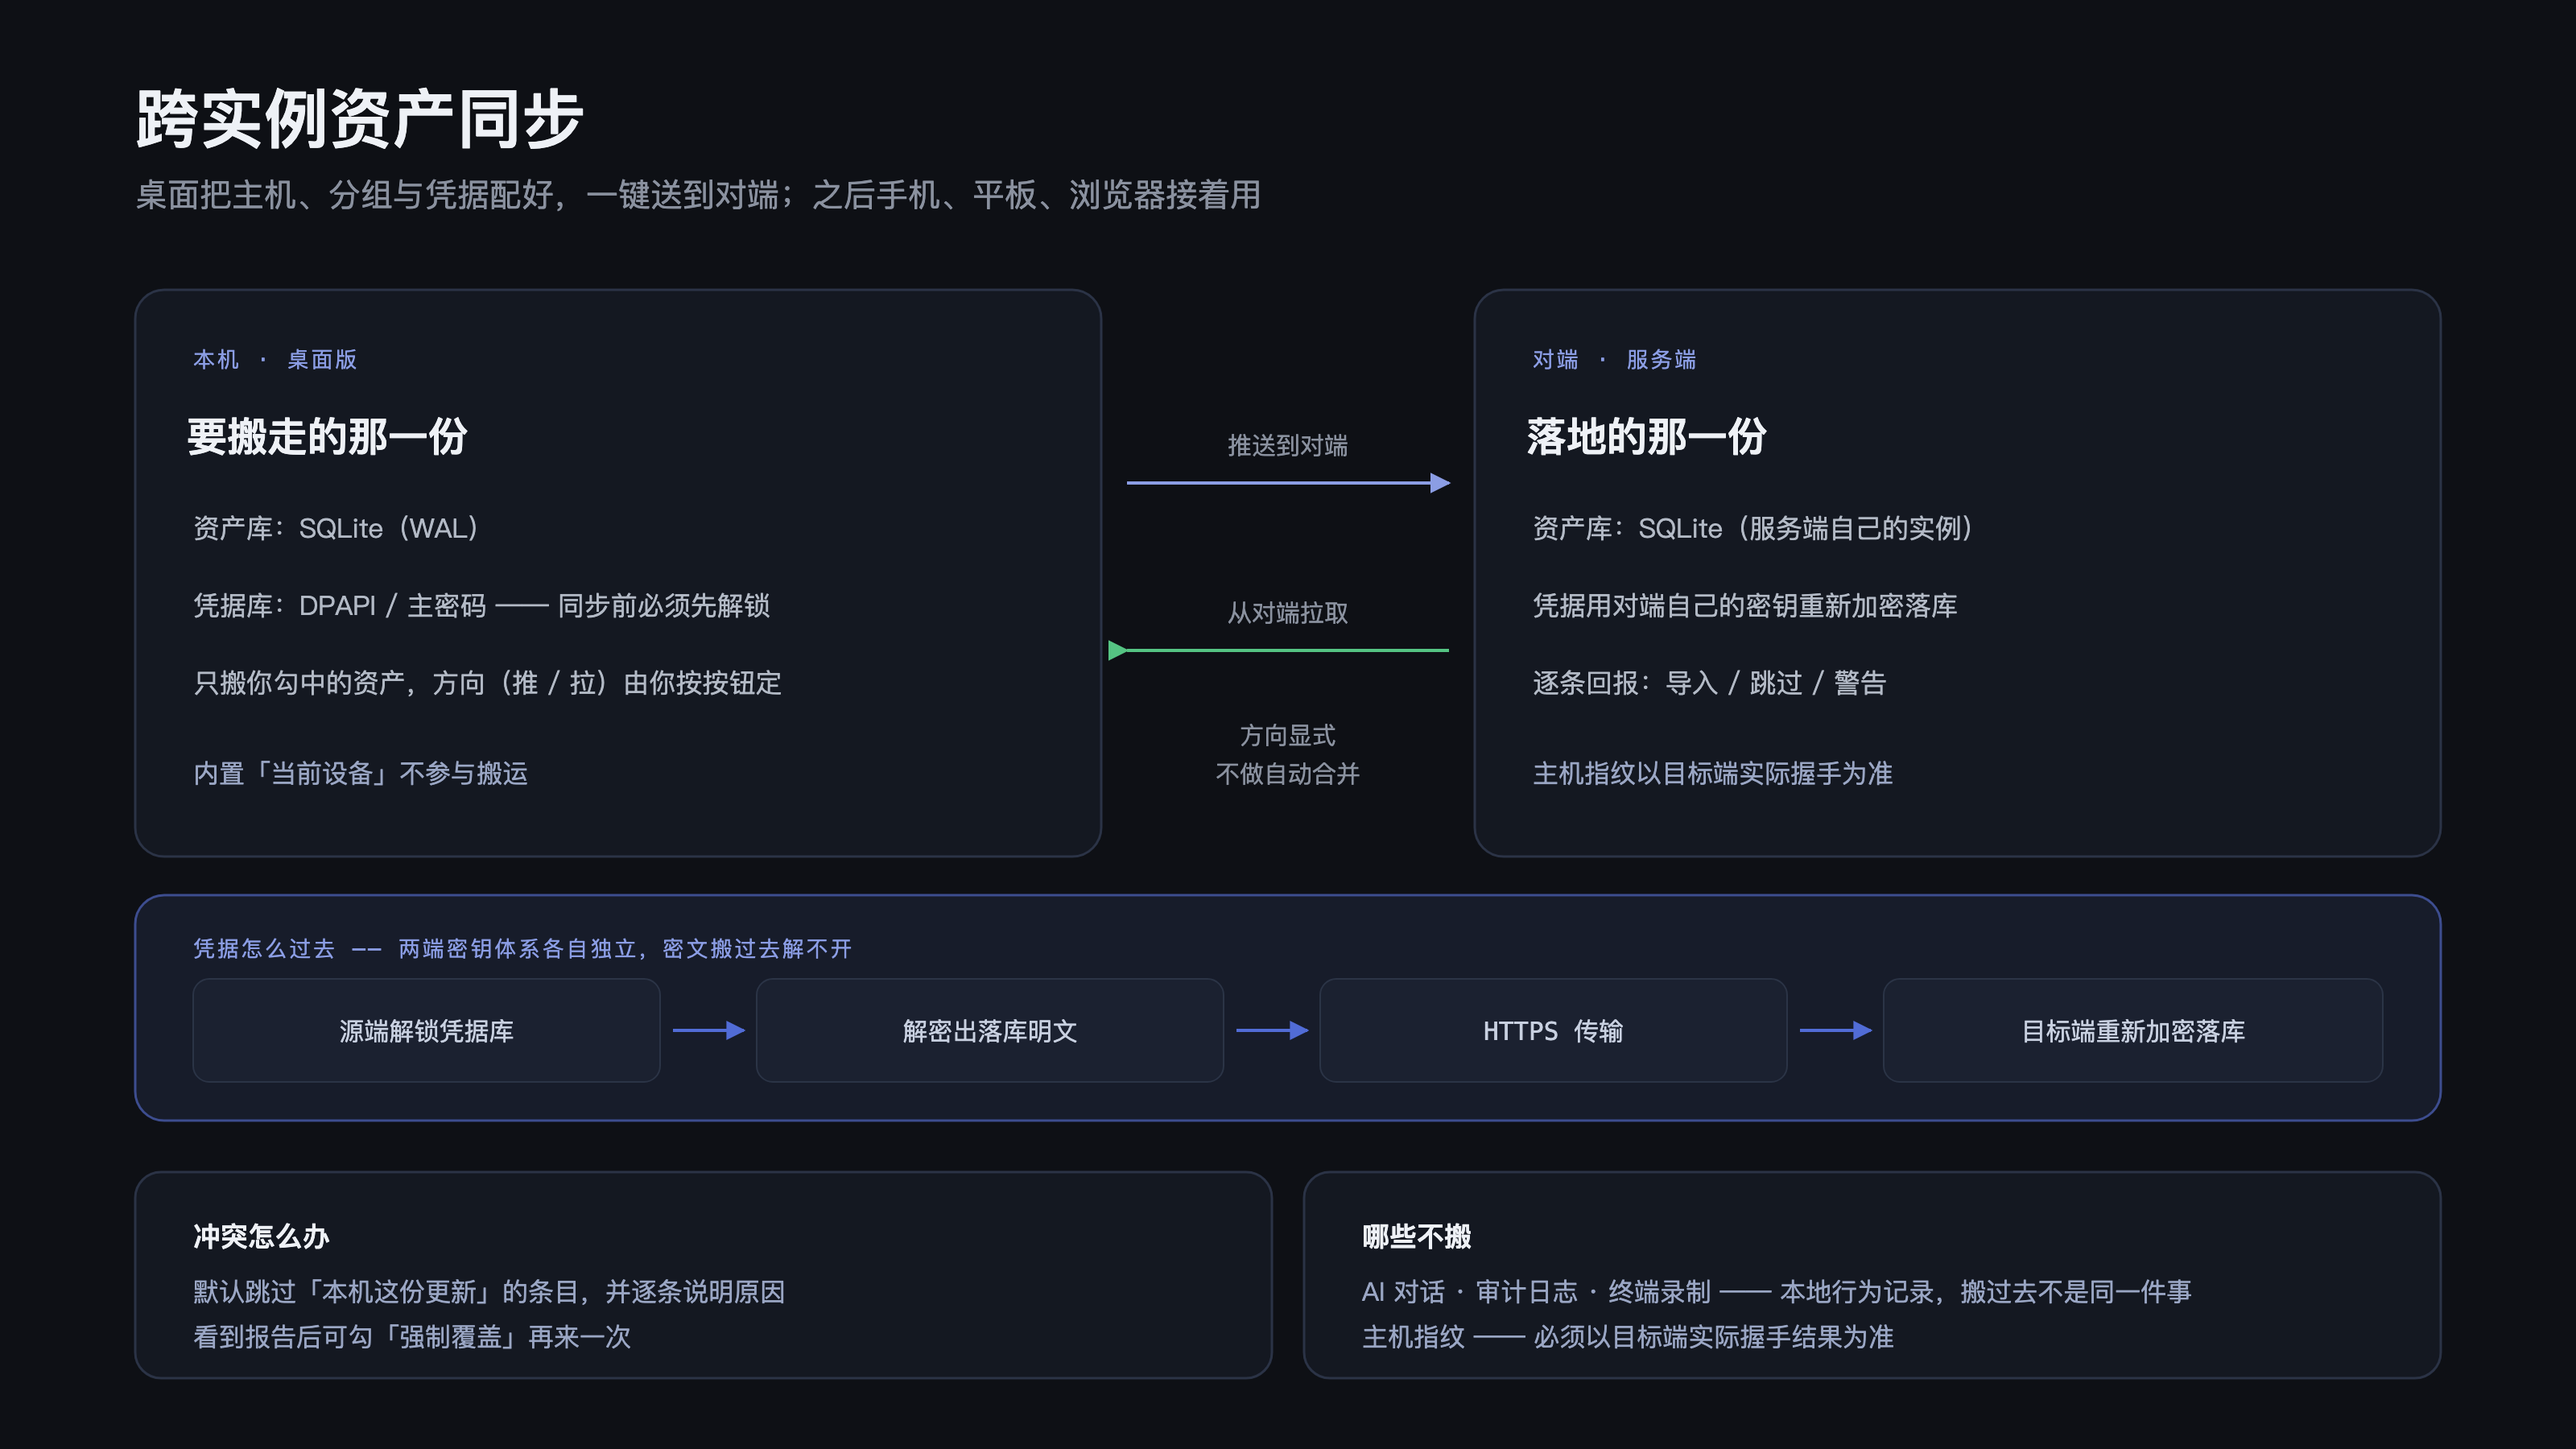
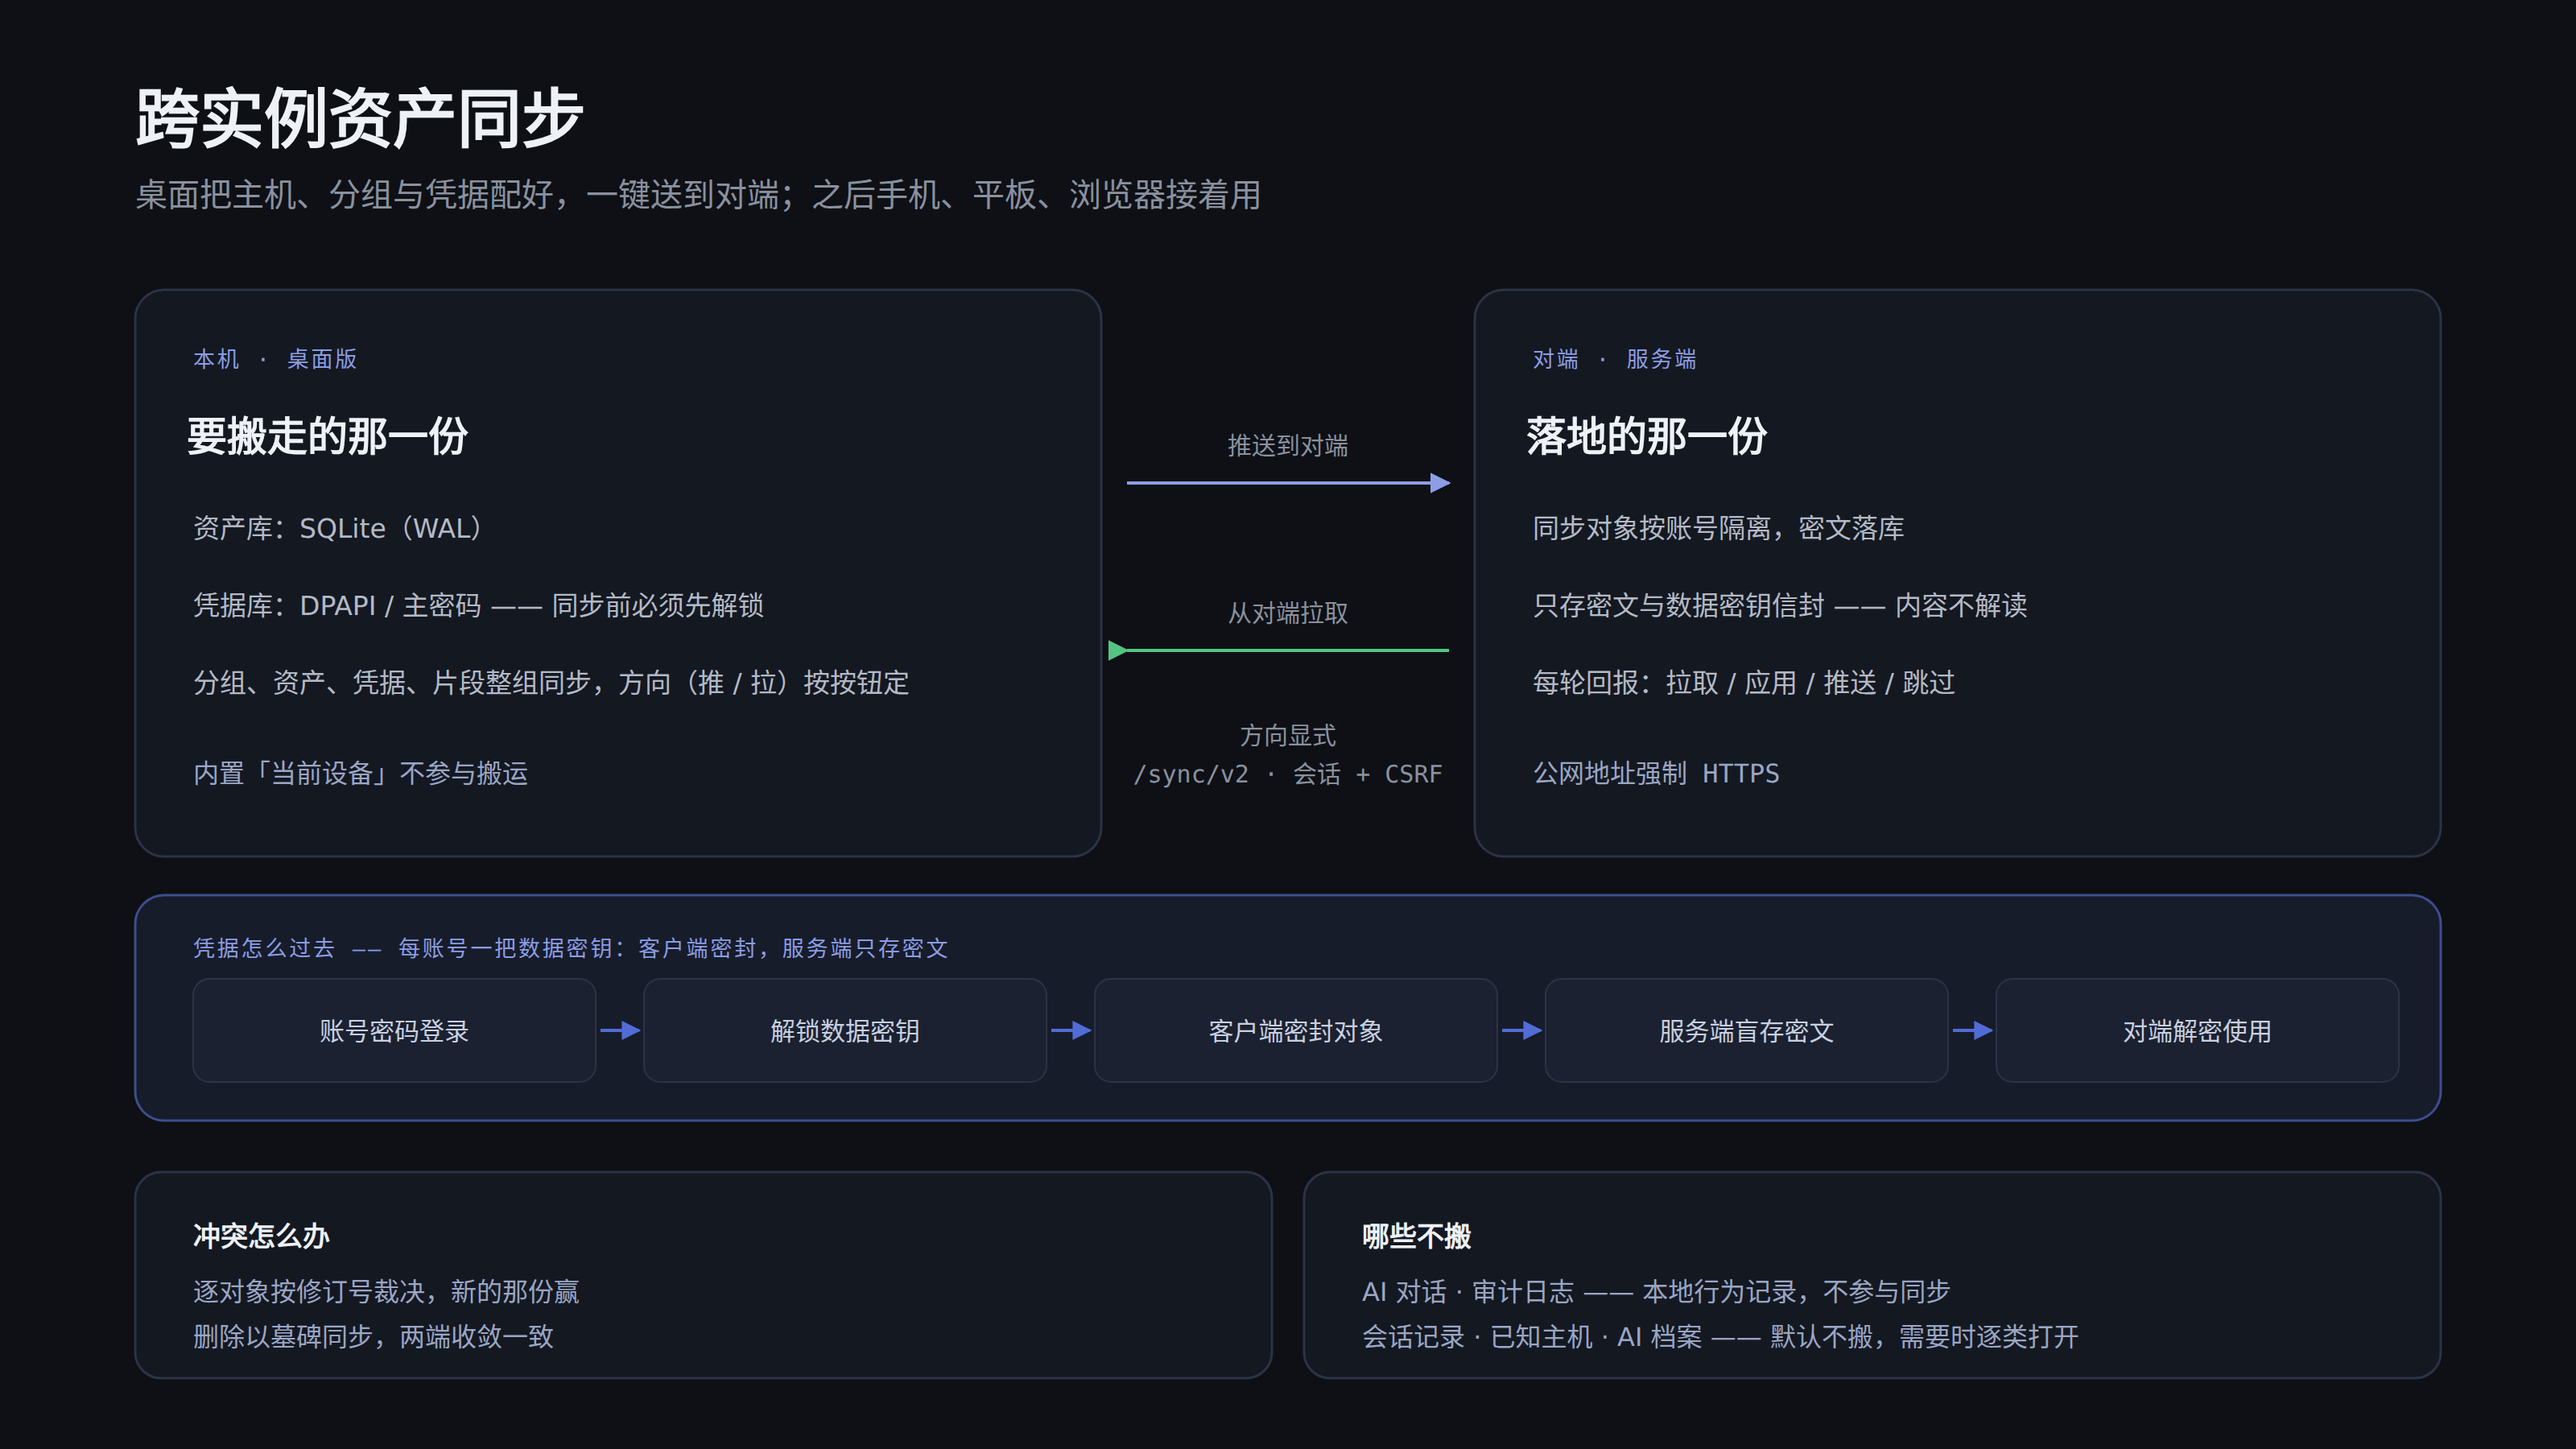
docs(website): redraw 02 sync flow for per-user DEK end-to-end model (M182)

diff --git a/website/index.html b/website/index.html
@@ -248,7 +248,7 @@
     </div>
 
     <div class="figure">
-      <img src="images/02-sync-flow.png" alt="跨实例资产同步：本机与对端之间的推拉与凭据重封" loading="lazy" />
+      <img src="images/02-sync-flow.png" alt="跨实例资产同步：数据密钥客户端密封，服务端只存密文" loading="lazy" />
     </div>
 
     <div class="bento bento-3">
@@ -260,7 +260,7 @@
       <div class="cell">
         <span class="tag">CONFLICT</span>
         <h3>默认不覆盖更新的那份</h3>
-        <p>跳过「本机这份更新」的条目并逐条说明原因。看到报告后可勾强制覆盖，再来一次。</p>
+        <p>跳过「本机这份更新」的条目并逐条说明原因。删除以墓碑同步，两端收敛一致。</p>
       </div>
       <div class="cell">
         <span class="tag">CREDENTIALS</span>
